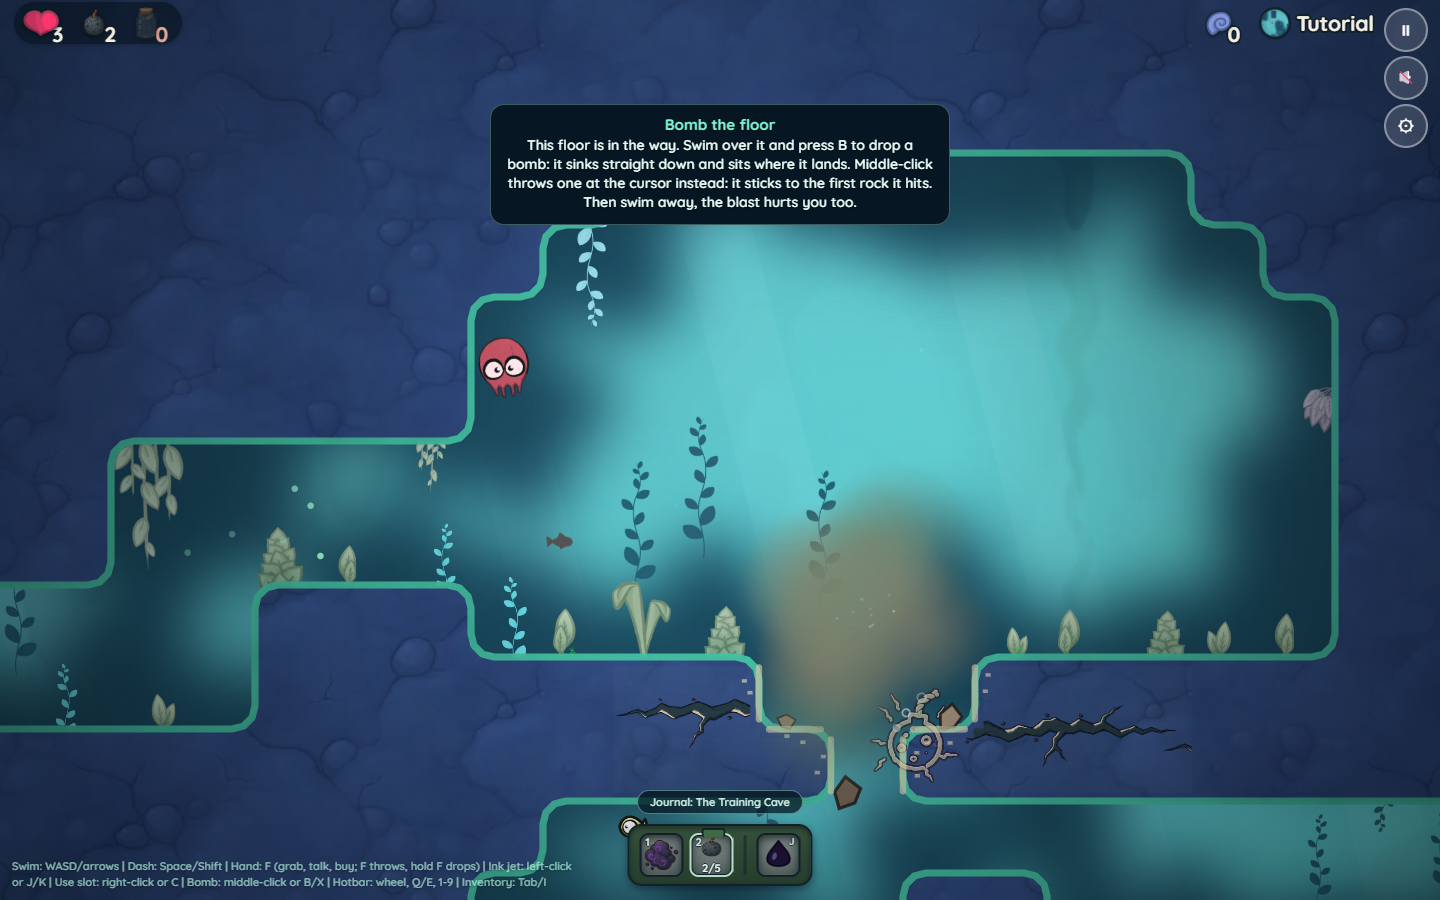
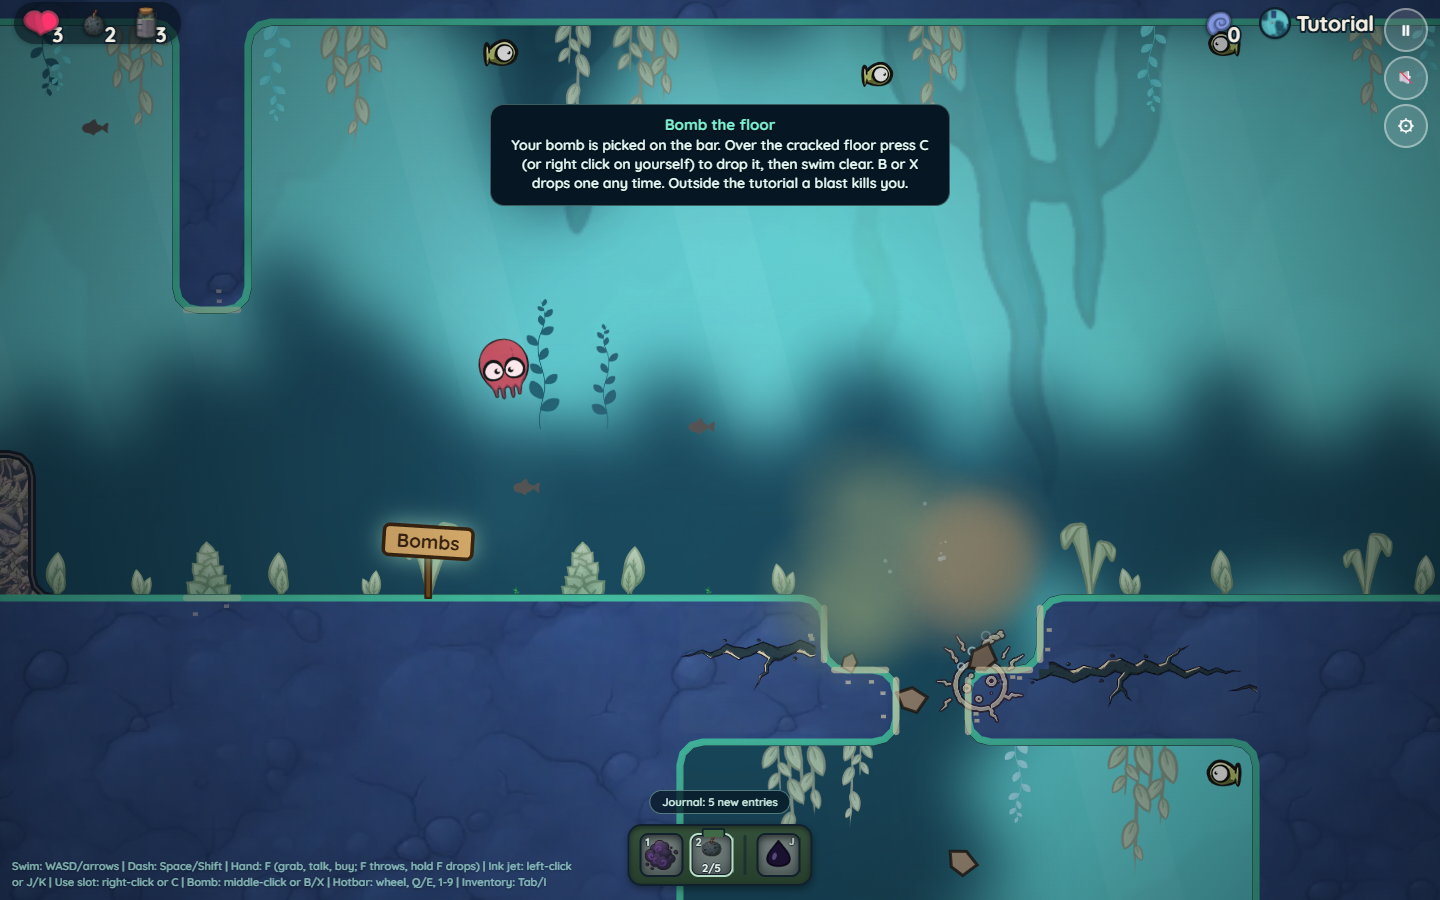
Tutorial: map builder (tools/tutorial_map.py), rock under the lower rooms so phones centre on them, touch texts name the Bomb button, frames of every room at 1440x900 and 412x915

diff --git a/octomancer-web/tools/tutorial_map.py b/octomancer-web/tools/tutorial_map.py
@@ -1,0 +1,115 @@
+# Builds site/octomancer/play/data/tutorial.json (the tutorial's rooms): the map is carved room by room, then the rooms,
+# prompts (with their world signs) and named spawns are written. Run: python octomancer-web/tools/tutorial_map.py
+# Map characters: see js/authored.js ('1'..'9' coral doors, 'W' the bomb floor, 'V' the sticky-mine wall, 'X' bedrock, 'B' fish bone).
+import json, sys, os
+W, H = 72, 44  # rock under the lower rooms lets a tall phone view centre on them (the camera stops at the level edge)
+g = [['#'] * W for _ in range(H)]
+def water(x0, y0, x1, y1, ch='.'):
+    for y in range(y0, y1 + 1):
+        for x in range(x0, x1 + 1):
+            g[y][x] = ch
+def put(x, y, ch): g[y][x] = ch
+
+# ---------------- top tier (y 5..12), left to right
+water(3, 5, 16, 12)            # R1 swim
+water(17, 11, 21, 12)          # the urchin gap (2 tall)
+water(22, 5, 35, 12)           # R2 ink
+water(26, 9, 28, 9, '#')       # a ledge with a pot on it
+water(30, 5, 31, 6, 'B')       # fish-bone target hanging from the ceiling
+water(36, 9, 36, 12, '1')      # door 1 (coral)
+water(37, 5, 50, 12)           # R3 hand
+water(47, 11, 48, 12, 'B')     # a fish-bone stump to throw at
+water(51, 9, 51, 12, '2')      # door 2
+water(52, 5, 69, 12)           # R4 bombs
+water(58, 13, 65, 14, 'W')     # the bomb floor
+water(58, 15, 65, 24)          # the shaft below it
+# ---------------- lower tier (floor y 33), right to left
+water(52, 25, 69, 32)          # R4b landing / sticky wall room
+water(50, 29, 51, 32, 'V')     # sticky-mine wall
+water(34, 24, 49, 32)          # R5 cloud
+water(33, 29, 33, 32, '3')     # door 3
+water(20, 25, 32, 32)          # R6 shop
+water(19, 29, 19, 32, '4')     # door 4
+water(7, 29, 18, 32)           # R7 hazard corridor
+water(6, 23, 18, 28, 'X')      # bedrock block over it, with three sealed pockets
+water(7, 24, 9, 27)            # pocket: dangling boulder
+water(11, 26, 13, 27)          # pocket: spikes
+water(15, 25, 17, 27)          # pocket: giant clam
+water(3, 28, 5, 32); water(6, 29, 6, 32)   # R8 exit
+put(6, 10, 'S')
+put(4, 32, 'E')
+put(21, 32, 'K'); put(24, 32, 'P'); put(27, 32, 'P'); put(30, 32, 'P')
+rows = [''.join(r) for r in g]
+
+def P(title, label, x, y, r, sign, desktop, touch, **kw):
+    d = {"title": title, "label": label, "x": x, "y": y, "r": r, "sign": sign, "desktop": desktop, "touch": touch}
+    d.update(kw); return d
+
+prompts = [
+  P("Swim", "Swim", 8, 9, 6.5, [9, 12],
+    "WASD or the arrow keys swim. Head right.",
+    "Drag anywhere on the left of the screen to swim. Head right."),
+  P("Dash", "Dash", 16, 11, 4.5, [15, 12],
+    "Space or Shift dashes. Mid-dash nothing can hurt you: get close, then dash through the urchins.",
+    "Tap Dash for a burst of speed. Mid-dash nothing can hurt you: get close, then dash through the urchins."),
+  P("Ink Jet", "Ink", 28, 9, 7.5, [24, 12],
+    "Left click squirts ink at the cursor (J or K: straight ahead). It refills slowly, watch the jet on your bar. Shoot the fish bones to open the coral.",
+    "Tap Jet to squirt ink at what is near. It refills slowly, watch the jet on your bar. Shoot the fish bones to open the coral."),
+  P("Grab and throw", "Grab", 43, 9, 7.5, [38, 12],
+    "F or middle click grabs a pot. Press again to throw it at the cursor, hold to set it down. Throw one at the fish bones. A carried pot takes a hit for you.",
+    "Stop next to a pot and tap Grab. Tap Throw to fling it the way you swim. Throw one at the fish bones. A carried pot takes a hit for you."),
+  P("Bomb the floor", "Bombs", 61, 9, 8.5, [54, 12],
+    "Your bomb is picked on the bar. Over the cracked floor press C (or right click on yourself) to drop it, then swim clear. B or X drops one any time. Outside the tutorial a blast kills you.",
+    "Your bomb is picked on the bar. Over the cracked floor tap Bomb to drop it, then swim clear. Outside the tutorial a blast kills you.",
+    refillBomb=True),
+  P("Sticky mine", "Sticky", 58, 29, 8, [55, 32],
+    "Point at the cracked wall and right click: the bomb flies there and sticks to the rock. Then back off.",
+    "Hold the stick toward the cracked wall and tap Bomb: the bomb flies there and sticks to the rock. Then back off."),
+  P("Spells", "Spells", 42, 28, 8.5, [47, 32],
+    "Q, E, the wheel or 1-9 pick a slot on your bar. Pick Ink Cloud and right click or press C: the piranha loses you in the ink. Spells drink fish juice; the jar refills only at the rest grotto, unless you carry the Siphon Shell.",
+    "Tap Spell to puff an Ink Cloud: the piranha loses you in the ink. Spells drink fish juice; the jar refills only at the rest grotto, unless you carry the Siphon Shell."),
+  P("Shop", "Shop", 26, 29, 7, [32, 32],
+    "Swim up to a ware and press F to buy it. Today it is free. In a real shop, carrying off or shooting a ware makes the keeper come for you.",
+    "Stop next to a ware and tap Grab to buy it. Today it is free. In a real shop, carrying off or shooting a ware makes the keeper come for you."),
+  P("Boulders", "Boulder", 9, 31, 2.0, [8, 32],
+    "A boulder drops when you swim under it. Blasts shake them loose too: one thing sets off the next.",
+    "A boulder drops when you swim under it. Blasts shake them loose too: one thing sets off the next."),
+  P("Spikes", "Spikes", 12.5, 31, 2.2, [12, 32],
+    "Spikes kill at once, hearts or not. Look before you sink.",
+    "Spikes kill at once, hearts or not. Look before you sink."),
+  P("Clams and jets", "Clam", 16.5, 31, 2.2, [17, 32],
+    "Giant clams snap on what swims in; tentacles grab and hold (dash to wriggle free). Jets push you up.",
+    "Giant clams snap on what swims in; tentacles grab and hold (dash to wriggle free). Jets push you up."),
+  P("Dive", "Dive", 5, 30.5, 3.2, [6, 32],
+    "Swim to the whirlpool and press F to dive. Below, the Beholder hunts slow divers from about 2:30; be quick for a Swift Current shell. Tab opens your journal, what you carry first.",
+    "Swim to the whirlpool and tap Grab to dive. Below, the Beholder hunts slow divers from about 2:30; be quick for a Swift Current shell. Your journal is in the pause menu."),
+]
+rooms = [
+  {"id": "swim", "rect": [3, 5, 21, 12], "goal": "pass", "goalX": 21.5},
+  {"id": "ink", "rect": [22, 5, 35, 12], "goal": "bone", "door": 1},
+  {"id": "hand", "rect": [37, 5, 50, 12], "goal": "throw", "door": 2},
+  {"id": "bomb", "rect": [52, 5, 69, 24], "goal": "walls"},
+  {"id": "sticky", "rect": [52, 25, 69, 32], "goal": "sticky"},
+  {"id": "cloud", "rect": [34, 24, 49, 32], "goal": "cast", "door": 3},
+  {"id": "shop", "rect": [20, 25, 32, 32], "goal": "buy", "door": 4},
+  {"id": "hazards", "rect": [7, 29, 18, 32], "goal": "pass", "goalX": 6.5, "dir": -1},
+  {"id": "exit", "rect": [3, 28, 6, 32], "goal": "exit"},
+]
+spawns = [
+  {"type": "enemy", "kind": "urchin", "placement": "ceiling", "x": 19.5, "y": 11.5},
+  {"type": "enemy", "kind": "urchin", "placement": "floor", "x": 19.5, "y": 12.5},
+  {"type": "loot", "name": "pot", "x": 27.5, "y": 8.5},
+  {"type": "loot", "name": "pot", "x": 33.5, "y": 12.5},
+  {"type": "loot", "name": "pot", "x": 40.5, "y": 12.5},
+  {"type": "loot", "name": "pot", "x": 42.5, "y": 12.5},
+  {"type": "enemy", "kind": "piranha", "placement": "open", "x": 41.5, "y": 27.5},
+  {"type": "hazard", "name": "rock", "x": 8.5, "y": 24.5, "dx": 0, "dy": 1},
+  {"type": "creature", "name": "gclam", "x": 16.5, "y": 27.5, "dx": 0, "dy": -1},
+  {"type": "hazard", "name": "spikes", "x": 12.5, "y": 27.5, "dx": 0, "dy": -1},
+  {"type": "hazard", "name": "jet", "x": 14.5, "y": 32.5, "dx": 0, "dy": -1},
+  {"type": "plankton-swarm", "x": 9.5, "y": 7.5, "count": 6},
+  {"type": "plankton-swarm", "x": 62.5, "y": 28.5, "count": 7},
+]
+out = {"id": "tutorial", "name": "Tutorial", "rows": rows, "rooms": rooms, "prompts": prompts, "spawns": spawns}
+dest = sys.argv[1] if len(sys.argv) > 1 else os.path.join(os.path.dirname(os.path.abspath(__file__)), '..', '..', 'site', 'octomancer', 'play', 'data', 'tutorial.json')
+open(dest, 'w', newline='\n').write(json.dumps(out, indent=1) + '\n')

diff --git a/octomancer-web/tools/build_authored_maps.py b/octomancer-web/tools/build_authored_maps.py
@@ -1,4 +1,4 @@
-"""Build site/octomancer/play/data/hub.json and tutorial.json (authored ASCII maps).
+"""Build site/octomancer/play/data/hub.json (authored ASCII map; historical: the hub has been edited by hand since). The tutorial is built by tutorial_map.py now.
 
 Legend: '#' rock, '.' water, 'S' start, 'E' exit (the dive entrance in the hub),
 'J' journal board (hub only), 'Q' quest sign (hub only), 'W' a breakable wall tile (rock; the tutorial bomb wall).
@@ -122,7 +122,7 @@ tut_json = {
                {'type': 'plankton-swarm', 'x': 47.5, 'y': 11.5, 'count': 7}],
 }
 
-for name, data in (('hub', hub_json), ('tutorial', tut_json)):
+for name, data in (('hub', hub_json),):  # tutorial.json: tutorial_map.py
     width = len(data['rows'][0])
     assert all(len(r) == width for r in data['rows']), name
     with open(os.path.join(out_dir, name + '.json'), 'w', encoding='utf8') as f:
